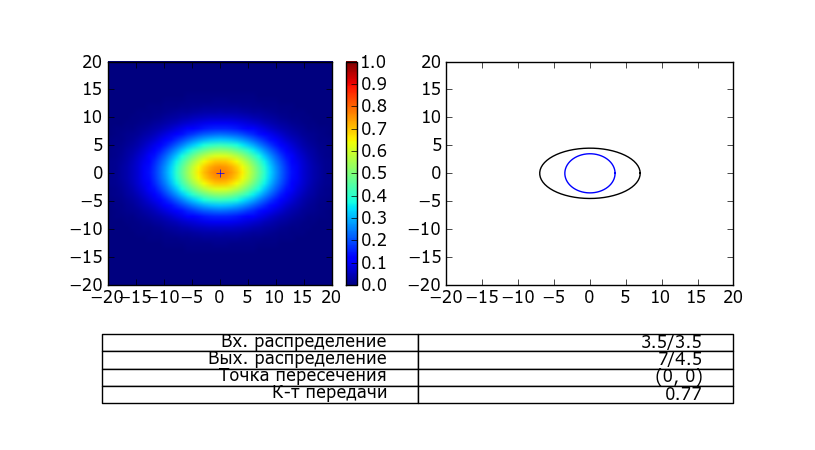
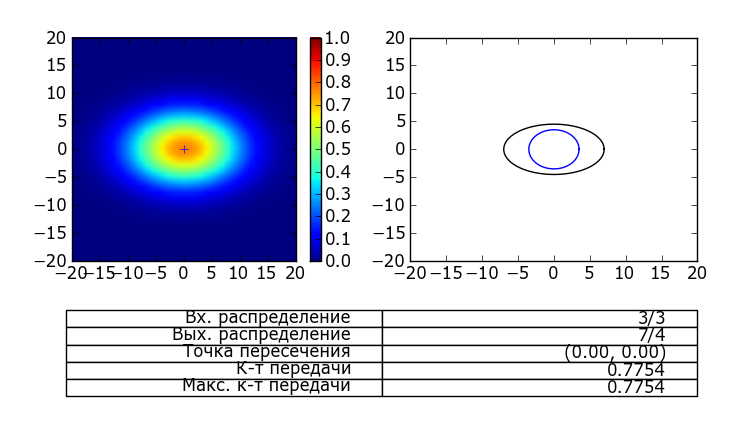
добавил про численные методы отображение максимального значения на графике

Changed region(s): [[0.062, 0.0588, 0.9609, 0.9118], [0.6509, 0.2647, 0.8059, 0.4412]]

diff --git a/chapter_03.tex b/chapter_03.tex
@@ -1,13 +1,31 @@
 \chapter{Моделирование}
 \section{Инструменты моделирования}
+Для нахождения позиции оптимальной стыковки волноводов, необходимо смоделировать поле волновода, и вычислить интеграл перекрытия, формула которого приведена в главе \ref{coupling}. Перебирая варианты взаимного расположения полей, необходимо найти максимальное значение этого интеграла.
 
-По выраженным выше формулам построим графики. Для расчетов используем бибилотеку SciPy для языка программирования Python. В этой библиотеке есть все необходимые нам математические функции, а также возможность скомпоновать из них более сложные для наших расчетов.
+Перебор всех теоретически возможных вариантов занимает длительное время, поэтому стоит его упростить, предполагая единственный максимум у функции. Для оптимизации поиска экстремумов функции используют методы координатного спуска, градиентного (наискорейшего) спуска и симплекс-метод.\cite{numeric} 
 
-Для графической части используем пакет Mathplotlib, гибкий и мощный построитель графиков. 
+Предполагая, что у искомого распределения значений интеграла перекрытия имеется только один максимум, используем метода градиентного спуска, поскольку в этом случае он позволит достичь результата за меньшее число итераций. \cite{mathews}
+
+Итак, нам нужен инструмент, умеющий считать интегралы, проводить итерации и строить графики. В работе используется язык программирования Python, имеющий все необходимое. Кроме того, использование языка программирования вместо математических интерпретаторов, например MATLAB позволяет получить скомпилированный код, который быстрее исполняется, что особенно важно при переборе вариантов.
+
+Для решения наших задач, в Python подключаются отдельные компоненты:
+\begin{itemize}
+	\item SciPy - пакет математических функций, используется для интегрирования и содержит реализацию алгоритма градиентного спуска
+	\item Mathplotlib - для вывода полученных результатов в виде графиков
+\end{itemize}
+
+Кроме того был написан свой компонент, реализующий функцию распределения Гаусса, для повышения производительности программы.
 
 \section{Моделирование поперечного смещения}
 
-При поперечном смещении центр выходного поля смещается относительно входного на расстояние $\Delta x$. В ходе моделирования, получились следующие зависимости коэффициента передачи от поперечного смещения:
+При поперечном смещении центр выходного поля смещается относительно входного на расстояние $\Delta x$, как показано на рисунке \ref{transverse_movement}. Для исследования коэффициента передачи была написана программа, вычисляющая значения интеграла перекрытия в пределах $x \in [-20, 20]$.
+Для моделирования использовались два случая
+\begin{itemize}
+	\item Два одинаковых цилиндрических волновода с радиусом моды 4~мкм
+	\item Два разных цилиндрических волновода с радиусами моды 4~мкм и 7~мкм соответственно
+\end{itemize}
+
+В ходе моделирования, было обнаружено, что только два одинаковых волновода теоретически позволяют достичь стыковки без потерь. Во втором случае, показанном на рисунке \ref{twoCylinders2} максимальное значение составило 0.862 и это значение будет уменьшаться с ростом разницы в размерах волноводов.
 
 \begin{figure}[h!]
 		\includegraphics[width=0.5\linewidth]{img/twoCylinders.png}
@@ -16,14 +34,14 @@
 \begin{figure}[h!]
 		\includegraphics[width=0.5\linewidth]{img/twoCylinders2.png}
 		\caption{Зависимость коэффициента передачи двух волноводов с радиусами моды 4~мкм и 7~мкм}
+		\label{twoCylinders2}
 \end{figure}
 
 \newpage
 \section{Интерактивная модель}
+Для решения основной задачи, то есть поиска точки контакта с максимальным значением коэффициента передачи, была построена отдельная программа.
 
-Кроме статических графиков, была построена модель, позволяющая быстро и просто находить вид выходного распределения.
-
-Слева показывается расчитанное распределение поля в выодном волноводе. В правой части схематично показывается перекрытие полей мод. Ниже показаны числовые значения рассчитываемых параметров. Кликами по распределению поля можно изменять вид перекрытия и изображение будет перестраиваться, показывая новое распределение. Эту модель удобно использовать для моделирования экспериментов, задавая значения и сразу же получая результат.
+В ней слева показывается поле в выходном волноводе, а справа - схематическое расположение перекрывающихся полей. Ниже показаны числовые значения рассчитываемых параметров. Изначально программа позиционирует волноводы так, чтобы коэффициент передачи был максимален. Кликами по распределению поля можно виртуально изменять положение выходного волновода относительно входного и изображение будет перестраиваться, показывая новое распределение. Таким образом, можно наблюдать что произойдет при отклонении от точки максимального контакта.
 
 \begin{figure}[h!]
 	\includegraphics[width=\linewidth]{img/heatmap.png}

diff --git a/chapter_02.tex b/chapter_02.tex
@@ -1,4 +1,5 @@
 \chapter{Взаимодействие волноводов}
+\label{coupling}
 \section{Поле цилиндрического волновода}
 Как уже упоминалось ранее, цилиндрический волновод имеет следующее распределение поля (формула \ref{cylinder_bessel}):
 $$
@@ -39,6 +40,7 @@ $$
 \begin{figure}[h!]
 	\includegraphics[width=.5\textwidth]{img/transverse_movement.pdf}
 	\caption{Поперечное смещение волноводов}
+	\label{transverse_movement}
 \end{figure}
 
 Рассмотрим изменение взаимного расположения полей в зависимости от поперечного смещения волноводов. В этом случае фаза не изменяется, а значит комплексная часть распределения равна нулю, а формула примет вид:
@@ -83,4 +85,3 @@ $$
 	{\iint\limits_{-\infty}^{\infty}e_{f0}(x,y)^2 \,dxdy
 	 \iint\limits_{-\infty}^{\infty}E_{in}(x,y)^2 \,dxdy}
 \end{equation}
-

diff --git a/python/twoCylinders.py b/python/twoCylinders.py
@@ -13,6 +13,7 @@ def substrat(x):
 
 x = np.arange(-20, 20, 0.1)
 pylab.plot(x, map(substrat, x))
+pylab.annotate("Cmax = {0:.3f}".format(substrat(0)), (5, 0.75))
 main.arrow_axes((-20, 20), (0, 1), "$\Delta x$", "C")
 
 pylab.savefig(main.getOutImagePath(__file__))

diff --git a/python/twoCylinders2.py b/python/twoCylinders2.py
@@ -13,6 +13,7 @@ def substrat(x):
 
 x = np.arange(-20, 20, 0.1)
 pylab.plot(x, map(substrat, x))
+pylab.annotate("Cmax = {0:.3f}".format(substrat(0)), (5, 0.75))
 main.arrow_axes((-20, 20), (0, 1), "$\Delta x$", "C")
 
 pylab.savefig(main.getOutImagePath(__file__))
